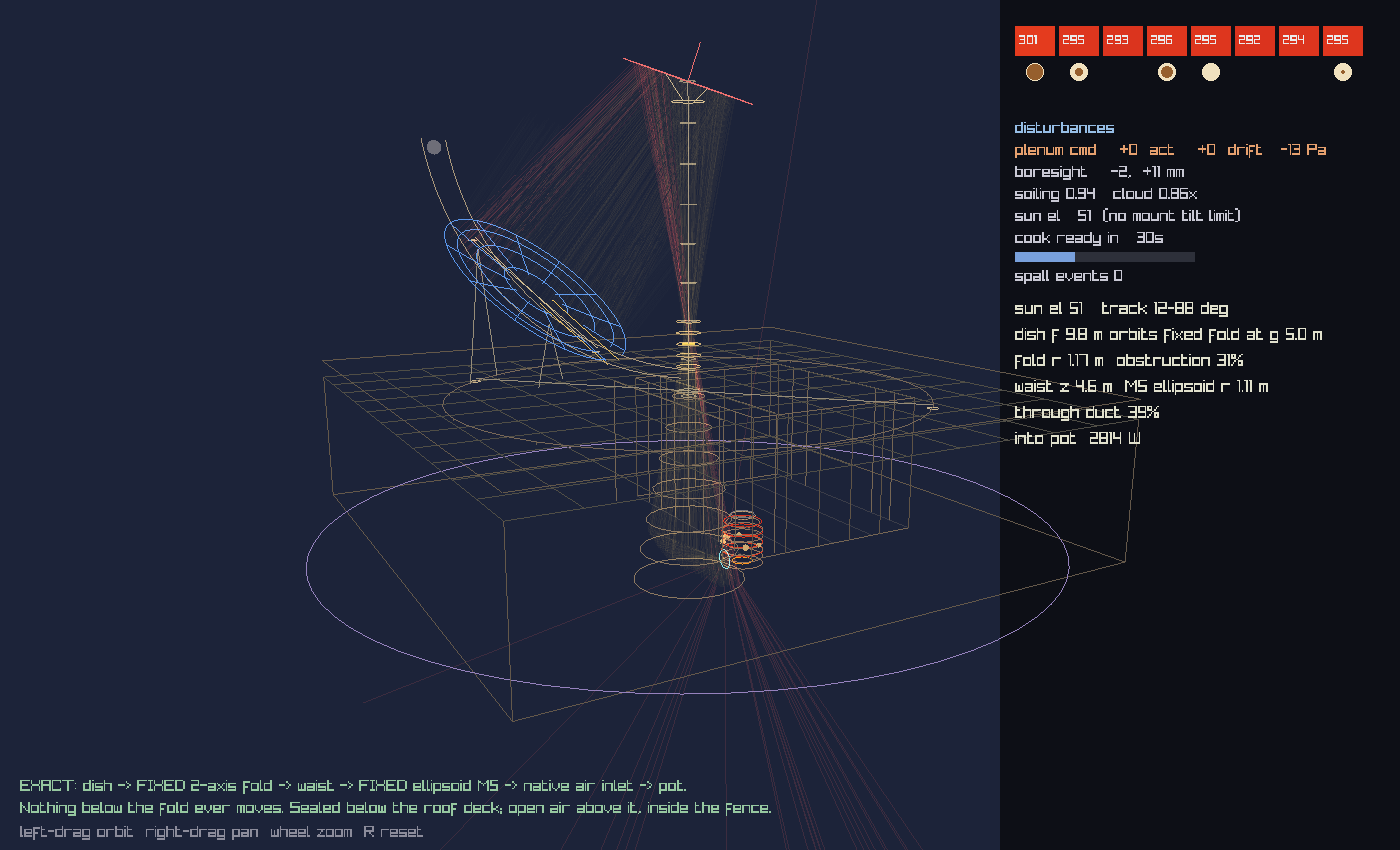
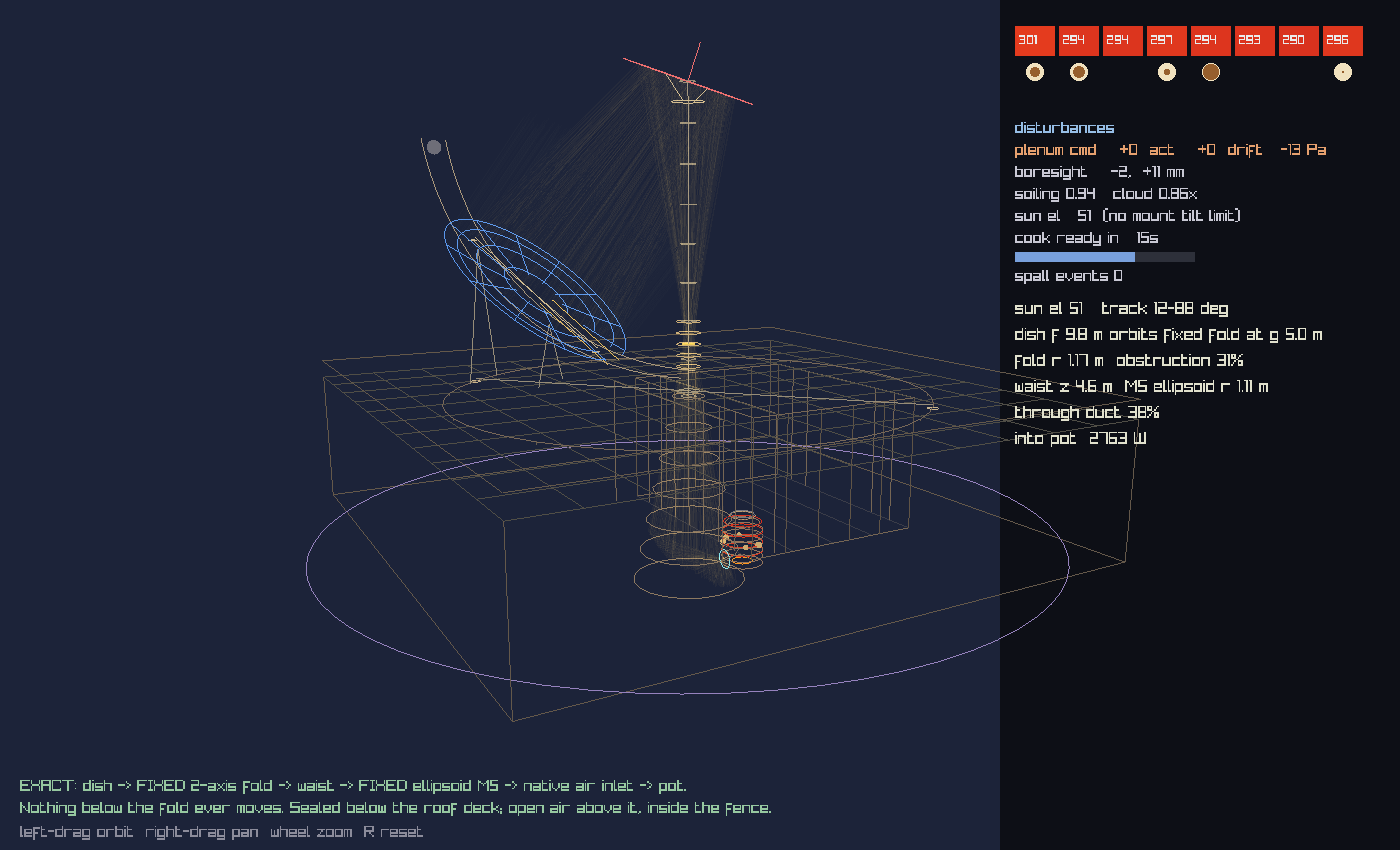
M5 is a patch, not the whole ellipsoid; grazing rays culled
The render showed red spill fanning through the floor below the pot -
the report was right and it was two defects in the M5 stage:

1. The mirror mask accepted the FAR ROOT anywhere on the ellipsoid.
   Measured hits spanned x 0.15-2.11, z to +1.07 - the closed surface's
   side lobes, far from any real mirror. Rays reflecting off the lobes
   went wherever, some straight down through the foundations. The
   mirror is now a bounded patch: |hit - V0| < 1.25 r_m5 around its
   vertex at the core base.

2. Near-grazing reflections (d3_x ~ 0) hit the duct-plane solve's
   clamp and produced kilometre-long segments - the duct-plane arrival
   "centroid" measured y=-742494, z=-7159947 m. In reality those rays
   die on the chamber masonry within a metre. Now culled
   (d3_x < -0.05, t3 < 4 m).

Neither defect carried power - `through` already required the duct
circle, so the score is unchanged (36-37%) - but the drawn geometry was
lying about where spill goes. After the fix the arrival centroid is
(-0.001, 0.134) against a target of (0, 0.140): 6 mm of static
misalignment, 22 mm rms, in a 200 mm duct, constant from 8:30 to 15:30.
The M5 alignment is exact; the fans were fiction.

diff --git a/tutorials/tandoor_hashemi_env.py b/tutorials/tandoor_hashemi_env.py
@@ -364,10 +364,15 @@ class TandoorHashemiEnv(TandoorCoudeEnv):
         sq = torch.sqrt(disc.clamp(min=0))
         t2 = (-qb + sq) / (2 * qa)
         h2 = h1 + t2[..., None] * d2
-        rad2 = torch.stack([h2[..., 0] - X_TOWER, h2[..., 1]], -1
-                           ).norm(dim=-1)
-        ok = ok & oke & (t2 > 0) & (h2[..., 2] < self.z_waist - 0.2) \
-            & (rad2 < self.r_m5)
+        # THE MIRROR IS A PATCH, NOT THE WHOLE ELLIPSOID. The far root
+        # can land on the surface's side lobes (measured: x 0.15-2.11,
+        # z to +1.07); rays reflecting there went wherever, some drawn
+        # straight through the foundations. Bound the patch to a disc
+        # around its vertex V0 at the core base.
+        V0t = torch.tensor([X_TOWER, 0.0, self.z_m5], dtype=torch.float32,
+                           device=dev)
+        ok = ok & oke & (t2 > 0) \
+            & ((h2 - V0t).norm(dim=-1) < 1.25 * self.r_m5)
         hl = (h2 - self.ell_ctr_t) @ self.ell_M.T
         nl = hl * self.ell_S
         nl = nl / nl.norm(dim=-1, keepdim=True)
@@ -375,8 +380,13 @@ class TandoorHashemiEnv(TandoorCoudeEnv):
         d3 = reflect(torch.cat([d2, torch.zeros_like(d2[..., :1])], -1),
                      torch.cat([ne, torch.zeros_like(ne[..., :1])], -1)
                      )[..., :3]
-        # the duct plane x = R_POT, with boresight decenter
+        # the duct plane x = R_POT, with boresight decenter. A ray must
+        # make real progress toward the pot: near-grazing directions
+        # (d3x ~ 0) produced kilometre-long bogus segments - they hit
+        # the chamber masonry within a metre in reality.
         t3 = (R_POT - h2[..., 0]) / d3[..., 0].clamp(max=-1e-9)
+        ok = ok & (d3[..., 0] < -0.05) & (t3 < 4.0)
+        t3 = t3.clamp(max=4.0)
         h3 = h2 + t3[..., None] * d3
         off = torch.as_tensor(offset_w, dtype=torch.float32, device=dev)
         dy = h3[..., 1] + off[:, 0:1]
